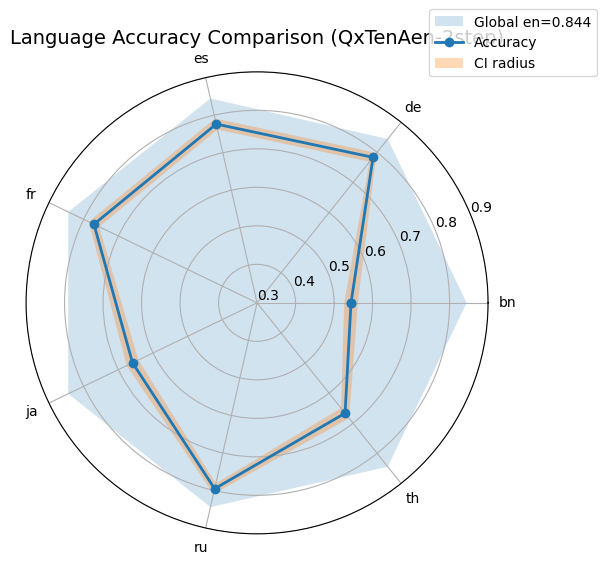
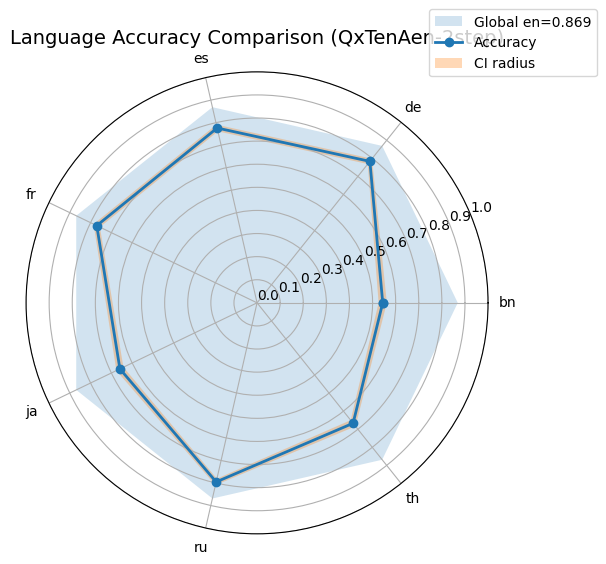
results_1

diff --git a/vis_group_radar.py b/vis_group_radar.py
@@ -4,6 +4,7 @@ import pandas as pd
 import numpy as np
 import matplotlib.pyplot as plt
 
+
 # ----------------------
 # 参数
 # ----------------------
@@ -22,7 +23,8 @@ args = parser.parse_args()
 root_dir = args.result_dir
 radar_min, radar_max = args.min, args.max
 
-subfolders_to_plot = ["QxAx", "QxAen", "QxTenAen", "QxTenAen-2step", "QxTenAen-2step-v2"]
+subfolders_to_plot = ["QxAx", "QxAen", "QxTenAen"]
+
 
 # ----------------------
 # 收集数据
@@ -53,6 +55,7 @@ if not data_dict:
     print("No data found.")
     exit(0)
 
+
 # ----------------------
 # 雷达图维度
 # ----------------------
@@ -60,6 +63,7 @@ languages = sorted(list(all_languages))
 N = len(languages)
 angles = np.linspace(0, 2 * np.pi, N, endpoint=False).tolist()
 angles += angles[:1]
+
 
 # ======================
 # 雷达图
@@ -137,43 +141,110 @@ radar_path = os.path.join(root_dir, "radar_comparison.png")
 plt.savefig(radar_path, bbox_inches="tight")
 plt.close(fig)
 
+
 # ======================
-# 新增：均值条形图
+# 新增：均值条形图 + CI + 表格（按要求修改）
 # ======================
 folders = []
 mean_accs = []
 mean_cis = []
 
+# 1) 非 en 任务的均值和 CI
 for folder in subfolders_to_plot:
     if folder not in data_dict:
         continue
 
+    # 只统计非 en 语言
     accs = [data_dict[folder][l][0] for l in languages]
     cis = [data_dict[folder][l][1] for l in languages]
 
     folders.append(folder)
-    mean_accs.append(np.mean(accs))
-    mean_cis.append(np.mean(cis))
+    mean_accs.append(np.mean(accs))      # 还在 0-1 区间
+    mean_cis.append(np.mean(cis))        # 同样在 0-1 区间
+
+# 2) en 的 CI：每个 en 源头的 CI 的均值再除以 sqrt(源的个数)
+en_cis = []
+en_accs = []
+en_sources = 0
+
+for folder in subfolders_to_plot:
+    csv_path = os.path.join(root_dir, folder, "result.csv")
+    if not os.path.exists(csv_path):
+        continue
+
+    df = pd.read_csv(csv_path)
+    df_en = df[df["language"] == "en"]
+
+    if df_en.empty:
+        continue
+
+    # 对 en 的所有 source 统计 accuracy 和 ci_radius
+    accs_en = df_en["accuracy"].values
+    cis_en = df_en["ci_radius"].values
+
+    if len(accs_en) > 0:
+        en_accs.append(np.mean(accs_en))    # 各 task 的 en 平均 acc
+        en_cis.append(np.mean(cis_en))      # 各 task 的 en 平均 CI
+        en_sources += 1
+
+if en_sources > 0:
+    en_acc_mean = np.mean(en_accs)
+    en_ci_mean = np.mean(en_cis) / np.sqrt(en_sources)
+else:
+    en_acc_mean = 0.0
+    en_ci_mean = 0.0
 
 folders.append("en_global")
-mean_accs.append(en_acc_global)
-mean_cis.append(0.0)
+mean_accs.append(en_acc_mean)
+mean_cis.append(en_ci_mean)
 
-fig, ax = plt.subplots(figsize=(8, 5))
+# 3) 所有分数和 CI 乘 100，变成百分数
+mean_accs = np.array(mean_accs) * 100.0
+mean_cis = np.array(mean_cis) * 100.0
+
+# 4) 绘制条形图：大小 (4,5)，bar width=0.8，每个棒不同颜色
+fig, ax = plt.subplots(figsize=(3, 5))
+
+x = np.arange(len(folders))
+width = 0.8
+
+# 几种颜色循环使用
+bar_colors = plt.cm.tab10(np.linspace(0, 1, len(folders)))
+
 ax.bar(
-    folders,
+    x,
     mean_accs,
     yerr=mean_cis,
-    capsize=5
+    capsize=5,
+    width=width,
+    color=bar_colors,
+    edgecolor='black',
 )
-ax.set_ylim(radar_min, radar_max)
-ax.set_ylabel("Mean Accuracy (non-en)")
+
+ax.set_xticks(x)
+ax.set_xticklabels(folders, rotation=45, ha='right')
+ax.set_ylim(radar_min * 100.0, radar_max * 100.0)
+ax.set_ylabel("Mean Accuracy (%)")
 ax.set_title("Mean Accuracy Across Languages")
-ax.grid(axis="y")
+ax.grid(axis="y", linestyle="--", alpha=0.5)
 
 bar_path = os.path.join(root_dir, "mean_accuracy_bar.png")
+plt.tight_layout()
 plt.savefig(bar_path, bbox_inches="tight")
 plt.close(fig)
 
+# 5) 输出简易表格：task 名称，score (xx.xx +- yy.yy)
+rows = []
+for name, acc, ci in zip(folders, mean_accs, mean_cis):
+    rows.append(f"{name:20s} {acc:6.2f} +- {ci:6.2f}")
+
+table_text = "\n".join(rows)
+table_path = os.path.join(root_dir, "mean_accuracy_summary.txt")
+with open(table_path, "w", encoding="utf-8") as f:
+    f.write(table_text + "\n")
+
 print(f"Radar plot saved to {radar_path}")
 print(f"Bar chart saved to {bar_path}")
+print("Summary table:")
+print(table_text)
+print(f"Summary table saved to {table_path}")

diff --git a/plot_attention.py b/plot_attention.py
@@ -85,8 +85,8 @@ def plot_attention_from_csv(
         plt.close()
 
 if __name__ == "__main__":
-    
-    csv_path = "./output/Qwen2.5-1.5B-Instruct/QxTenAen-2step-attn_eval/result.csv"  # 替换成你的 CSV 路径
+    model = "Qwen2.5-0.5B"
+    csv_path = f"./output/{model}-Instruct/QxTenAen-2step-attn_eval/result.csv"  # 替换成你的 CSV 路径
     lang = ["ja", "de", "ru", "fr", "bn", "es", "th"]
     for l in lang: 
         plot_attention_from_csv(
@@ -94,7 +94,7 @@ if __name__ == "__main__":
             language=l,
             source="total",
             fields=("problem", "translation"),
-            output_dir="output/attn_plot/Qwen2.5-1.5B",     # 保存到 ./output
+            output_dir=f"output/attn_plot/{model}",     # 保存到 ./output
             show=False,               # 不弹窗，只保存
-            model_name="Qwen2.5-1.5B"
+            model_name=f"{model}"
         )

diff --git a/plot_multi_lang2.py b/plot_multi_lang2.py
@@ -202,7 +202,8 @@ def plot_language_averaged_with_individuals_norm(
 
 
 if __name__ == "__main__":
-    csv_path = "./output/Qwen2.5-1.5B-Instruct/QxTenAen-2step-attn_eval/result.csv"
+    model = "Qwen2.5-0.5B"
+    csv_path = f"./output/{model}-Instruct/QxTenAen-2step-attn_eval/result.csv"  # 替换成你的 CSV 路径
 
     languages = ["ja", "de", "ru", "fr", "bn", "es", "th"]
 
@@ -211,8 +212,8 @@ if __name__ == "__main__":
         languages=languages,
         source="total",
         fields=("problem", "translation"),
-        output_dir="output/attn_plot/Qwen2.5-1.5B",     # 保存到 ./output
-        show=False,
-        model_name="Qwen2.5-1.5B",
-        vertical_layer=18,
+        output_dir=f"output/attn_plot/{model}",     # 保存到 ./output
+        show=False,               # 不弹窗，只保存
+        model_name=f"{model}",
+        vertical_layer=14,
     )

diff --git a/plot_multi_lang.py b/plot_multi_lang.py
@@ -180,7 +180,8 @@ def plot_language_averaged_with_individuals(
 
 
 if __name__ == "__main__":
-    csv_path = "./output/Qwen2.5-1.5B-Instruct/QxTenAen-2step-attn_eval/result.csv"
+    model = "Qwen2.5-0.5B"
+    csv_path = f"./output/{model}-Instruct/QxTenAen-2step-attn_eval/result.csv"  # 替换成你的 CSV 路径
 
     languages = ["ja", "de", "ru", "fr", "bn", "es", "th"]
 
@@ -189,8 +190,8 @@ if __name__ == "__main__":
         languages=languages,
         source="total",
         fields=("problem", "translation"),
-        output_dir="output/attn_plot/Qwen2.5-1.5B",     # 保存到 ./output
-        show=False,
-        model_name="Qwen2.5-1.5B",
-        vertical_layer=18,
+        output_dir=f"output/attn_plot/{model}",     # 保存到 ./output
+        show=False,               # 不弹窗，只保存
+        model_name=f"{model}",
+        vertical_layer=14,
     )
